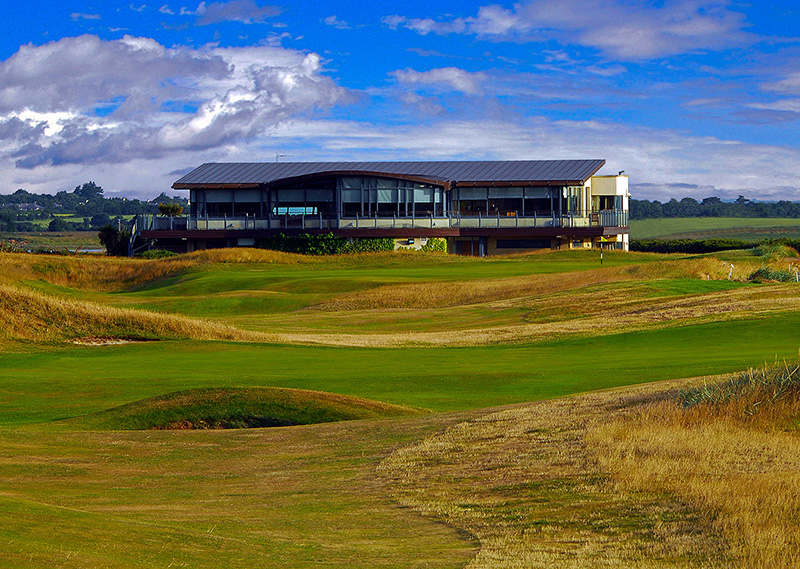
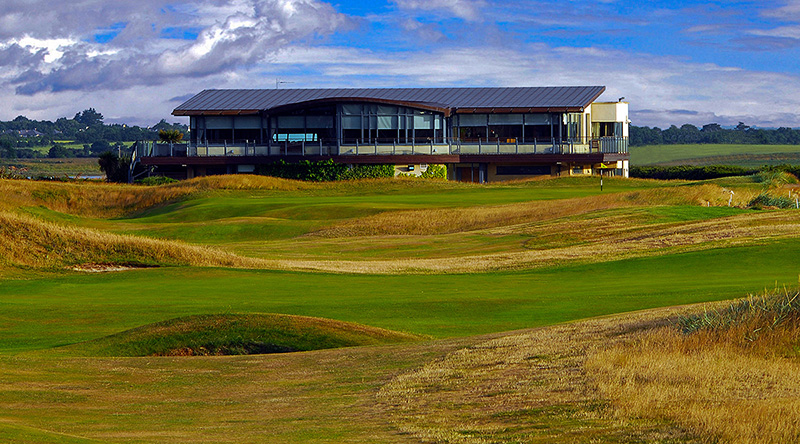
add media queries

diff --git a/assets/css/style.css b/assets/css/style.css
@@ -367,7 +367,8 @@ img {
 
 
 .sutton-img {
-    max-width: auto;
+    width: 95%;
+    
     padding: 1rem;
     box-shadow: var(--shadow);
 }
@@ -393,7 +394,8 @@ img {
 }
 
 .galway-img {
-    max-width: auto;
+    width: 95%;
+    
     padding: 1rem;
     box-shadow: var(--shadow);
 }
@@ -1019,7 +1021,7 @@ body {
 
 /* screen sizes */
 
-@media screen and (min-width: 992px) {
+@media screen and (min-width: 1200px) {
     #location {
         height: 100vh;
         scroll-margin-top: 10rem;
@@ -1044,16 +1046,19 @@ body {
     .about-us {
         grid-area: about-us;
         margin-top: 4rem;
+        width: auto;
     }
 
     .sponsors {
         grid-area: sponsors;
         margin-top: 4rem;
+        width: auto;
     }
 
     .sponsors-logo {
         grid-area: sponsors-logo;
         margin: 4rem 2rem;
+        width: auto;
     }
 
     footer {
@@ -1061,12 +1066,137 @@ body {
     }
 }
 
+@media screen and (min-width: 781px) and (max-width: 1100px) {
 
-@media screen and (max-width: 573px) {
+    .event,
+    .second-paragraph,
+    .sutton,
+    .galway-2,
+    .about-us,
+    .sponsors,
+    p {
+        font-size: 1.5rem;
+        margin: .5rem;
+    }
+
+    .event h2,
+    .sutton h2,
+    .galway-2 h2,
+    .about-us h2,
+    .sponsors h2 {
+        font-size: 2.6rem;
+        
+    }
+    
+    .main-grid {
+        margin: 2rem;
+    }
+
+    .logo h1 {
+        letter-spacing: .2rem;
+        font-size: 2.5rem;
+
+    }
+
+    .navbar-links ul {
+        flex-direction: row;
+        gap: 0;
+        padding: 0;
+        display: flex;
+        width: auto;
+        font-size: 1.2rem;
+
+    }
+
+    .navbar-links li {
+        text-align: center;
+    }
+
+
+    .navbar-links.active {
+        display: flex;
+    }
+
+    .side-banner {
+        padding-bottom: 0;
+    }
+
+    .side-banner h2 {
+        font-size: 3rem;
+
+    }
+
+    .h1-1 {
+        padding: .4rem;
+    }
+
+    .h1-2 {
+        padding: .4rem;
+    }
+
+    .side-banner h3 {
+        font-size: 2rem;
+
+    }
+
+    .h3-1 {
+        padding: .4rem;
+    }
+
+    .h3-2 {
+        padding-bottom: .4rem;
+    }
+
+    .sunset {
+        margin-top: 1rem;
+        margin-bottom: 4rem;
+    }
+
+    .sutton-img,
+    .galway-img {
+        width: 90%;
+    }
+
+    .book-button {
+        width: 80%;
+    }
+
+    #about {
+        margin: 2rem;
+    }
+
+    #about h2 {
+        padding: 2rem 0rem 2rem 0rem;
+        text-align: center;
+    }
+
+    .about-us {
+        margin-top: 2rem;
+        margin-bottom: 5rem;
+    }
+
+    .sponsors h2 {
+        margin-top: 3rem;
+    }
+
+    .sponsors-logo {
+        margin-top: 3rem;
+        
+    }
+
+    .sponsors-logo img {
+        width: 80%;
+        
+    }
+
+}
+
+
+@media screen and (max-width: 780px) {
 
     .main-grid {
         display: grid;
-        grid-template-columns: minmax(390px, 573px);
+        grid-template-columns: minmax(390px, 780px);
         grid-template-areas:
             "logo"
             "navbar"
@@ -1260,6 +1390,7 @@ body {
         
         flex-direction: column;
         align-items: center;
+        
     }
 
     .sutton-img
@@ -1285,6 +1416,7 @@ body {
     #about {
         height: 100vh;
         scroll-margin-top: 8rem;
+        width: auto;
     }
 
     .about-us,
@@ -1371,76 +1503,7 @@ body {
 
 
 
-@media screen and (min-width: 574px) and (max-width: 1136px) {
-    .main-grid {
-        margin: 2rem;
-    }
 
-    .logo h1 {
-        letter-spacing: .2rem;
-        font-size: 2.5rem;
-
-    }
-
-    .navbar {
-        flex-direction: column;
-        align-items: flex-start;
-    }
-
-    .toggle-button {
-        display: flex;
-    }
-
-    .navbar-links {
-        display: none;
-        width: 100%;
-        font-size: 1.2rem;
-    }
-
-    .navbar-links ul {
-        width: 100%;
-        flex-direction: column;
-    }
-
-    .navbar-links li {
-        text-align: center;
-    }
-
-    .navbar-links ul li a {
-        padding: .5rem 1rem;
-    }
-
-    .navbar-links.active {
-        display: flex;
-    }
-
-    .side-ad h2 {
-        font-size: 3rem;
-
-    }
-
-    .h1-1 {
-        padding: .4rem;
-    }
-
-    .h1-2 {
-        padding: .4rem;
-    }
-
-    .side-ad h3 {
-        font-size: 2rem;
-
-    }
-
-    .h3-1 {
-        padding: .4rem;
-    }
-
-    .h3-2 {
-        padding-bottom: .4rem;
-    }
-
-}
 
 /* Animation */
 

diff --git a/index.html b/index.html
@@ -153,7 +153,7 @@
         <!-- galway -->
         <div class="galway-2">
             <h2>Galway golf club</h2>
-            <img src="./assets/images/sutton-clubhouse-800.jpg" alt="golf club house" class="galway-img">
+            <img src="./assets/images/royal-dublin-800.jpg" alt="golf club house" class="galway-img">
             <p>Establish in 1895, Sutton golf links is a true test of the hardy golfer in you, a true nine-hole
                 classic.
                 A combination of a dry fast fairways and greens, usually accompanied by a refreshing breeze off the
